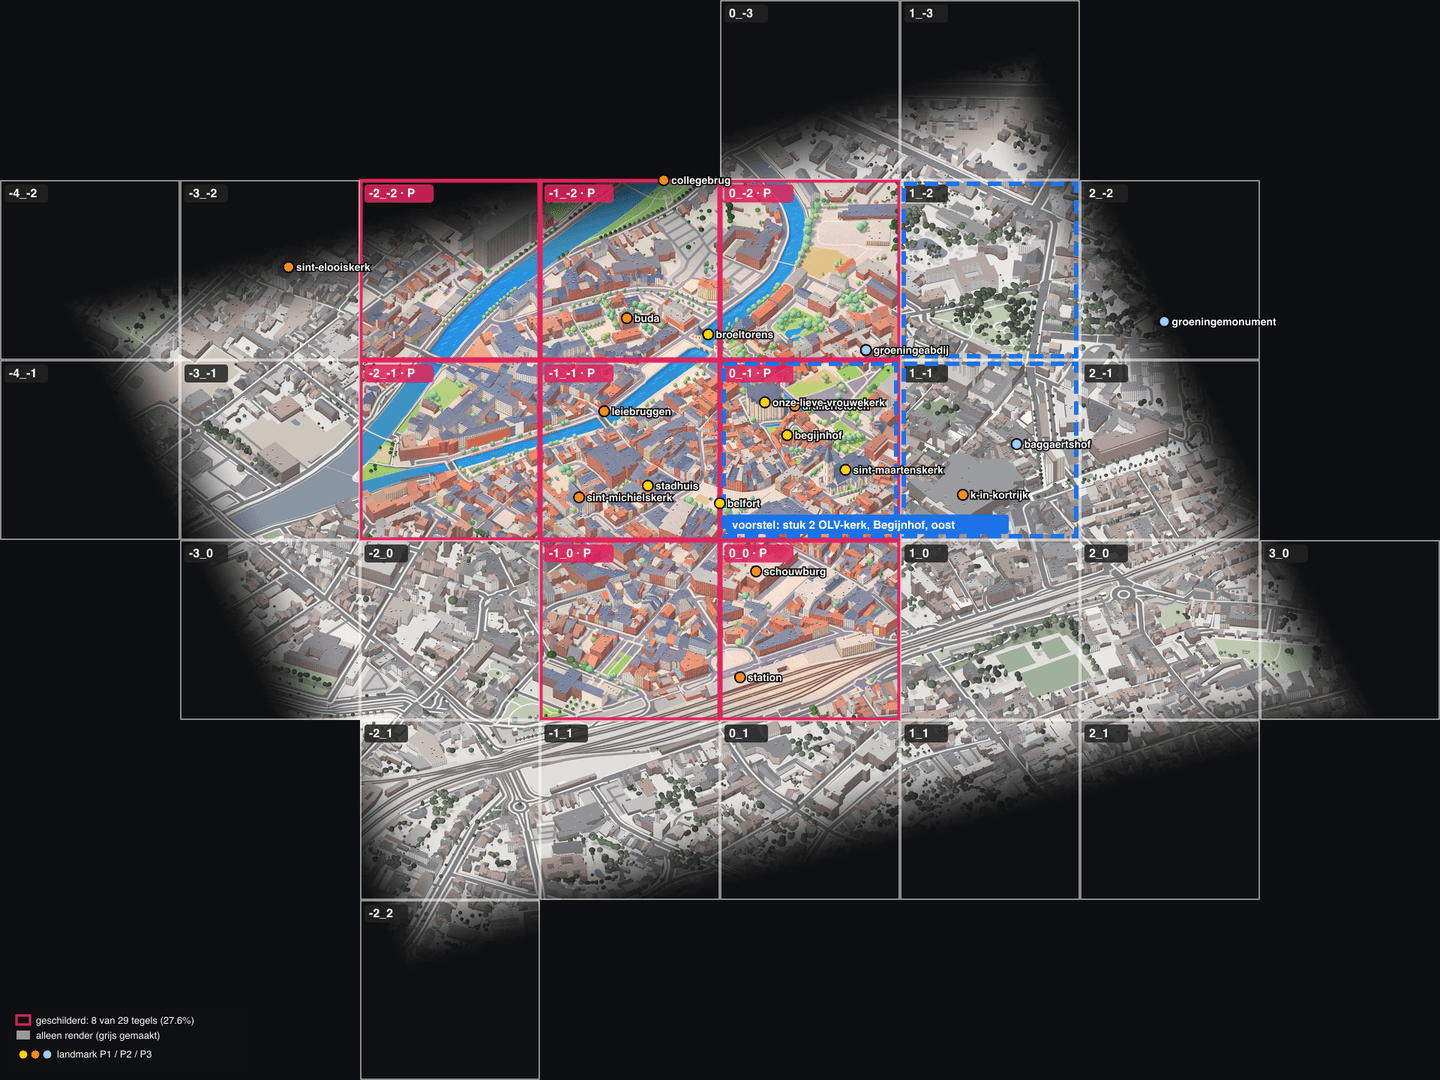
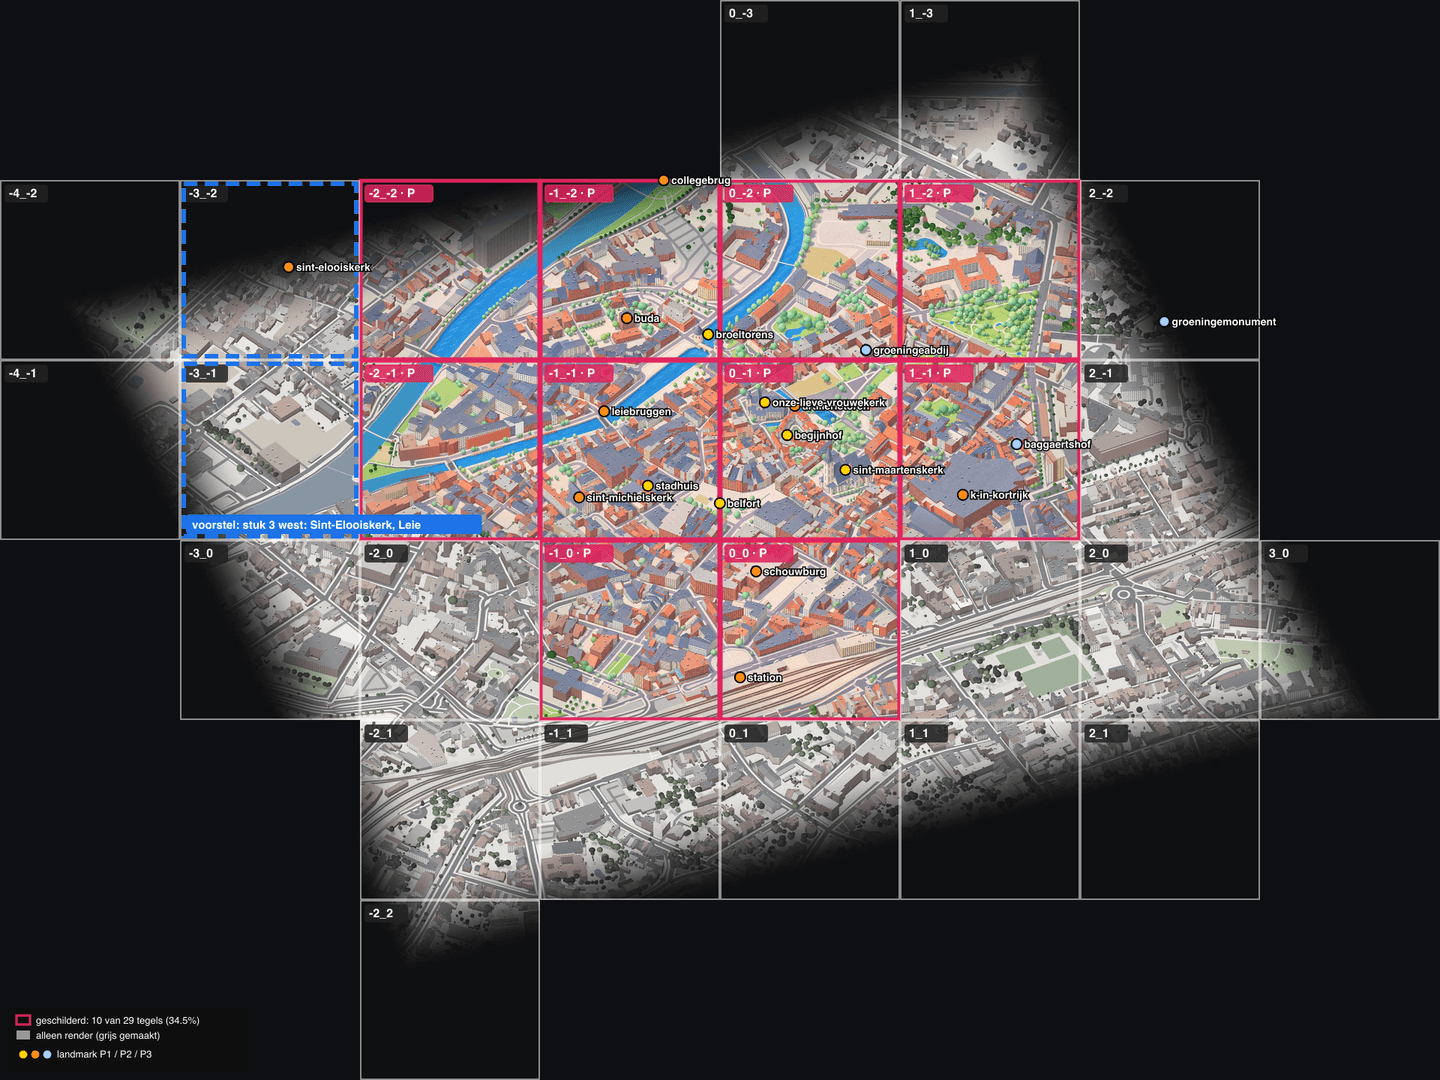
Piece 2 live: OLV-kerk, Begijnhof, east side; 10 of 29 tiles
Windows 0_-2 and 0_-1 repainted (twice: neighbour strips first carried the
old palace-like OLV along), 1_-2 and 1_-1 painted: 6 calls, ~$0.54. Five
tiles reassembled with the new pipeline/tools/assemble_tiles.py, which
rewrites only a piece's tiles. Published (236 files). paintstatus.ts reads
published tiles from R2 when the cache is empty. Piece 3 (west) proposed.

diff --git a/pipeline/src/paintstatus.ts b/pipeline/src/paintstatus.ts
@@ -3,9 +3,10 @@
  * per 1024 px art tile), painted tiles outlined red, render-only tiles greyed, landmarks by priority,
  * and the proposed next piece dashed blue. Run after every piece (docs/PAINT_STATUS.md "Working rule").
  *
- *   npx tsx src/paintstatus.ts [--next "1_-2,1_-1"] [--label "voorstel: stuk 2 ..."]
+ *   npx tsx src/paintstatus.ts [--next="1_-2,1_-1"] [--label "voorstel: stuk 2 ..."]
  *
- * Needs an export (data/web/regions/<region>/tiles/map/7).
+ * Reads the z7 map tiles from the export cache, else the published ones on R2 (TILES_ORIGIN, default the
+ * simkortrijk r2.dev bucket) by their hashes in data/web-state/<region>.json.
  */
 import { existsSync, readFileSync, readdirSync } from "node:fs";
 import { join } from "node:path";
@@ -13,7 +14,7 @@ import { parseArgs } from "node:util";
 import sharp from "sharp";
 import { GROUND_H } from "./areas.ts";
 import { llhToPixel } from "./camera.ts";
-import { DERIVED, PIPELINE, ROOT, WEB_CACHE } from "./paths.ts";
+import { DERIVED, PIPELINE, ROOT, WEB_CACHE, WEB_STATE } from "./paths.ts";
 
 const { values: args } = parseArgs({ options: { area: { type: "string", default: "kortrijk-binnenstad" }, next: { type: "string", default: "" }, label: { type: "string", default: "" } } });
 const d = join(DERIVED, args.area!);
@@ -24,11 +25,21 @@ const painted = new Set(existsSync(join(d, "paint")) ? readdirSync(join(d, "pain
 const next = new Set(args.next!.split(",").filter(Boolean));
 const C = 240, TX0 = Math.min(...tiles.map((t) => t[0])), TY0 = Math.min(...tiles.map((t) => t[1]));
 const NX = Math.max(...tiles.map((t) => t[0])) - TX0 + 1, NY = Math.max(...tiles.map((t) => t[1])) - TY0 + 1, W = NX * C, H = NY * C;
+const ORIGIN = process.env.TILES_ORIGIN || "https://pub-74f69231228247acb76f1009b1fa86f5.r2.dev";
+const stateFile = join(WEB_STATE, "kortrijk.json");
+const published = existsSync(stateFile) ? JSON.parse(readFileSync(stateFile, "utf8")) : {};
 const parts = [];
 for (const [tx, ty] of tiles) {
   const f = join(z7, `${tx}`, `${ty}.avif`);
-  if (!existsSync(f)) throw new Error(`${f} missing: run npm run export first`);
-  let img = sharp(readFileSync(f)).resize(C, C);
+  let buf: Buffer;
+  if (existsSync(f)) buf = readFileSync(f);
+  else {
+    const v = published.layers?.map?.hashes?.[`7/${tx}_${ty}`];
+    const r = await fetch(`${ORIGIN}/regions/kortrijk/tiles/map/7/${tx}/${ty}.avif${v ? `?v=${v}` : ""}`);
+    if (!r.ok) throw new Error(`z7 tile ${tx}_${ty}: not in the export cache and ${r.status} from ${ORIGIN}`);
+    buf = Buffer.from(await r.arrayBuffer());
+  }
+  let img = sharp(buf).resize(C, C);
   if (!painted.has(`${tx}_${ty}`)) img = img.modulate({ saturation: 0.25, brightness: 1.05 });
   parts.push({ input: await img.png().toBuffer(), left: (tx - TX0) * C, top: (ty - TY0) * C });
 }

diff --git a/pipeline/tools/assemble_tiles.py b/pipeline/tools/assemble_tiles.py
@@ -1,0 +1,67 @@
+#!/usr/bin/env python3
+"""Rebuild chosen paint tiles from the windows, feathered into the render where painted meets unpainted.
+
+Unlike assemble_block.py (one rectangle, all of it rewritten) this rewrites only the tiles of a piece
+and leaves every other paint tile as it is:
+
+    python3 pipeline/tools/assemble_tiles.py --target -2_-2,-1_-2,...  --rewrite 0_-1,1_-1
+
+--target: every tile that is painted once this piece is done (feather only where they meet the rest).
+--rewrite: the tiles to write (windows changed under them). Windows are used wherever they exist in
+windows/; a missing window leaves its square to its neighbours, or to the render.
+"""
+import argparse
+from pathlib import Path
+import numpy as np
+from PIL import Image
+from scipy import ndimage
+
+S, W, OV, FE = 896, 1024, 128, 64
+ap = argparse.ArgumentParser(description=__doc__, formatter_class=argparse.RawDescriptionHelpFormatter)
+ap.add_argument("--area", default="kortrijk-binnenstad")
+ap.add_argument("--target", required=True)
+ap.add_argument("--rewrite", required=True)
+ap.add_argument("--feather", type=float, default=220)
+args = ap.parse_args()
+pair = lambda s: tuple(int(v) for v in s.split("_"))
+target = {pair(t) for t in args.target.split(",")}
+rewrite = [pair(t) for t in args.rewrite.split(",")]
+base = Path(__file__).resolve().parents[2] / "data" / "derived" / args.area
+txs = [t[0] for t in target]; tys = [t[1] for t in target]
+tx0, tx1, ty0, ty1 = min(txs) - 1, max(txs) + 1, min(tys) - 1, max(tys) + 1   # a render margin all round
+x0, y0 = tx0 * 1024, ty0 * 1024
+Wd, Hd = (tx1 - tx0 + 1) * 1024, (ty1 - ty0 + 1) * 1024
+k = np.arange(W)
+edge = lambda t: np.clip((t + 0.5 - (OV - FE) / 2) / FE, 0, 1)
+ramp = np.minimum(edge(k), edge(W - 1 - k))
+acc = np.zeros((Hd, Wd, 3)); ws = np.zeros((Hd, Wd))
+wins = {pair(p.stem) for p in (base / "windows").glob("*.png")}
+for (i, j) in sorted(wins):
+    x, y = i * S - x0, j * S - y0
+    if x + W <= 0 or y + W <= 0 or x >= Wd or y >= Hd: continue
+    a = np.asarray(Image.open(base / "windows" / f"{i}_{j}.png").convert("RGB").resize((W, W))).astype(float)
+    c, r = ramp.copy(), ramp.copy()
+    if (i - 1, j) not in wins: c[: W // 2] = 1   # no neighbour on that side: opaque to its own edge
+    if (i + 1, j) not in wins: c[W // 2 :] = 1
+    if (i, j - 1) not in wins: r[: W // 2] = 1
+    if (i, j + 1) not in wins: r[W // 2 :] = 1
+    w2 = np.outer(r, c)
+    xs, ys, xe, ye = max(0, -x), max(0, -y), min(W, Wd - x), min(W, Hd - y)
+    acc[y + ys : y + ye, x + xs : x + xe] += a[ys:ye, xs:xe] * w2[ys:ye, xs:xe, None]
+    ws[y + ys : y + ye, x + xs : x + xe] += w2[ys:ye, xs:xe]
+paint = acc / np.maximum(ws, 1e-6)[..., None]
+render = np.zeros((Hd, Wd, 3)); tgt = np.zeros((Hd, Wd), bool)
+for ty in range(ty0, ty1 + 1):
+    for tx in range(tx0, tx1 + 1):
+        f = base / "render" / f"{tx}_{ty}.png"; y, x = (ty - ty0) * 1024, (tx - tx0) * 1024
+        if f.exists(): render[y : y + 1024, x : x + 1024] = np.asarray(Image.open(f).convert("RGB"))
+        if (tx, ty) in target: tgt[y : y + 1024, x : x + 1024] = True
+zone = ~(tgt & (ws > 1e-3))
+alpha = np.clip(ndimage.distance_transform_edt(~zone) / args.feather, 0, 1)
+alpha = alpha * alpha * (3 - 2 * alpha)
+out = paint * alpha[..., None] + render * (1 - alpha[..., None])
+(base / "paint").mkdir(exist_ok=True)
+for tx, ty in rewrite:
+    y, x = (ty - ty0) * 1024, (tx - tx0) * 1024
+    Image.fromarray(np.clip(out[y : y + 1024, x : x + 1024], 0, 255).astype(np.uint8)).save(base / "paint" / f"{tx}_{ty}.png")
+print(f"wrote {len(rewrite)} paint tiles: {' '.join(f'{a}_{b}' for a, b in rewrite)} (feather {args.feather:g} px)")

diff --git a/docs/PAINT_STATUS.md b/docs/PAINT_STATUS.md
@@ -28,11 +28,16 @@ The map is painted in **pieces** (`stukken`): a few neighbouring tiles, or one l
 |---|---|---|---|---|---|---|
 | 0 | Broeltorens block | `-2_-2` `-1_-2` `0_-2` `-2_-1` `-1_-1` `0_-1` | Broeltorens + Broelbrug, Sint-Maartenskerk (fixed); Belfort, stadhuis, OLV-kerk, Begijnhof, Buda, Collegebrug, Groeningeabdij painted from the uncorrected render | **done**, live | 11 / ~$0.98 | 2026-11-11 |
 | 1 | Grote Markt | repaint the Belfort and stadhuis windows in `-1_-1` / `0_-1`; paint `-1_0` `0_0` | Belfort, historisch stadhuis (P1, render fix first); Stadsschouwburg, station (P2) | **done**, live (published 18:27 CET, 214 files): render fixed (`belfort/massing.json`, `stadhuis/massing.json`), windows `-1_-1` and `0_-1` repainted, `-1_0` and `0_0` painted, tiles `-1_-1` `0_-1` `-1_0` `0_0` reassembled | 4 / ~$0.36 | 2026-11-11 |
-| 2 | OLV-kerk, Begijnhof, east side | repaint `0_-1` after the OLV and Begijnhof fixes; paint `1_-2` `1_-1` | OLV-kerk + Gravenkapel, Begijnhof (P1, render fix first); K in Kortrijk + Sint-Janstoren (P2); Baggaertshof (P3) | **in progress**: approved by Tom; OLV-kerk (`massing.json`) and Begijnhof (`colours.json`) render fixed, render check with Tom; no paint calls yet | ~5 / ~$0.45 (estimate) | 2026-11-11 |
+| 2 | OLV-kerk, Begijnhof, east side | repaint `0_-1` after the OLV and Begijnhof fixes; paint `1_-2` `1_-1` | OLV-kerk + Gravenkapel, Begijnhof (P1, render fix first); K in Kortrijk + Sint-Janstoren (P2); Baggaertshof (P3) | **done**, live (published 18:46 CET, 236 files): OLV-kerk (`massing.json`) and Begijnhof (`colours.json`) fixed; windows `0_-2` `0_-1` repainted, `1_-2` `1_-1` painted, tiles `0_-2` `0_-1` `0_0` `1_-2` `1_-1` reassembled. K in Kortrijk, Sint-Janstoren and Baggaertshof painted from the uncorrected render | 6 / ~$0.54 (2 repaints after the OLV came out as a palace, see below) | 2026-11-11 |
+| 3 | West: Sint-Elooiskerk, Leie | paint `-3_-2` `-3_-1` (windows `-4_-2` `-4_-1` `-3_-2` `-3_-1`) | Sint-Elooiskerk (P2; check its LiDAR spire in the render first), Noordbrug / Leiebruggen (P2) | **proposed** | ~4 / ~$0.36 (estimate) | |
 
-Progress: **8 of 29** binnenstad tiles painted (27.6%), all live.
+Progress: **10 of 29** binnenstad tiles painted (34.5%), all live.
 
-How piece 1 was painted (and how the next pieces go): the local `windows/` held old pre-colour windows, so they are in `windows.old-local/`. The windows of the live block (`-2_-2` `-1_-2` `0_-2` `-2_-1` `0_-1`) were cut back out of the live paint tiles so new windows continue the live paint. To publish only what changed: empty `data/web/regions/<region>` and `data/web/<region>.state.json`, then `TILES_ORIGIN=https://pub-74f69231228247acb76f1009b1fa86f5.r2.dev npm run export -- kortrijk-binnenstad` (the lower zooms fetch unchanged tiles from R2, and `.env` leaves `TILES_ORIGIN` empty) and publish with the same `TILES_ORIGIN` plus the OAuth token (CLAUDE.md, Gotchas). Each window is painted alone (`npm run paint -- kortrijk-binnenstad --window=i,j [--force] --interactive`, `PAINT_PROVIDER=openai OPENAI_IMAGE_MODEL=gpt-image-2.6-flare PAINT_ATTEMPTS=1`), and only the tiles that change are reassembled, with the usual 220 px feather into the render wherever a painted tile meets an unpainted one. The bottom ~220 px of a block are a feather into the render, so a block that grows downward or sideways repaints its edge windows too.
+Open follow-ups (small pieces of their own, each a render fix plus one repaint): K in Kortrijk + Sint-Janstoren (dark stone block with glass barrel roof, white tower) and Baggaertshof (a `colours.json` like the Begijnhof) in window `1_-1`.
+
+How piece 1 was painted (and how the next pieces go): the local `windows/` held old pre-colour windows, so they are in `windows.old-local/`. The windows of the live block (`-2_-2` `-1_-2` `0_-2` `-2_-1` `0_-1`) were cut back out of the live paint tiles so new windows continue the live paint. To publish only what changed: empty `data/web/regions/<region>` and `data/web/<region>.state.json`, then `TILES_ORIGIN=https://pub-74f69231228247acb76f1009b1fa86f5.r2.dev npm run export -- kortrijk-binnenstad` (the lower zooms fetch unchanged tiles from R2, and `.env` leaves `TILES_ORIGIN` empty) and publish with the same `TILES_ORIGIN` plus the OAuth token (CLAUDE.md, Gotchas). Each window is painted alone (`npm run paint -- kortrijk-binnenstad --window=i,j [--force] --interactive`, `PAINT_PROVIDER=openai OPENAI_IMAGE_MODEL=gpt-image-2.6-flare PAINT_ATTEMPTS=1`), and only the tiles that change are reassembled (`python3 pipeline/tools/assemble_tiles.py --target=<all painted tiles> --rewrite=<changed tiles>`), with the usual 220 px feather into the render wherever a painted tile meets an unpainted one. The bottom ~220 px of a block are a feather into the render, so a block that grows downward or sideways repaints its edge windows too.
+
+Neighbour strips carry old paint along: in piece 2 the old `0_-1` window (OLV-kerk painted from the old 34.6 m box, a cream palace) was pasted into the new `0_-2`, which passed it on to the new `0_-1`, and the corrected church came out as a palace again. When a landmark's render changes, move the old windows that show it out of `windows/` before painting its neighbours, then paint outward from the landmark.
 
 ## Summary
 
@@ -41,9 +46,9 @@ How piece 1 was painted (and how the next pieces go): the local `windows/` held 
 | Area on the live map | `kortrijk-binnenstad` only (bbox 50.820387,3.254240 – 50.834760,3.276994, about 800 m) |
 | Render tiles (1024 px, 0.25 m/px, 256 m) | **29**, `tx` -4..3 × `ty` -3..2 (irregular, see grid) |
 | Web resolution | **HD**: native zoom 9 at 0.125 m/px from `render-hd/` (2048 px per tile), AVIF q65. The 6 painted tiles are 1024 px paint upscaled: they are no sharper than before until they are repainted at 2K into `paint-hd/`. |
-| Painted tiles | **8**: `tx` -2..0 × `ty` -2..-1, the Broeltorens / Sint-Maarten block, plus `-1_0` `0_0` (Grote Markt south side, Schouwburg, station; piece 1) |
-| Render-only tiles | **21**, showing the coloured 3D render (per-building colours, `--soften 0.5`), not painted |
-| Coverage | **27.6%** of the binnenstad map (8 of 29 equal tiles) |
+| Painted tiles | **10**: `tx` -2..0 × `ty` -2..-1 (Broeltorens / Sint-Maarten block), `-1_0` `0_0` (piece 1, Grote Markt south side), `1_-2` `1_-1` (piece 2, east side) |
+| Render-only tiles | **19**, showing the coloured 3D render (per-building colours, `--soften 0.5`), not painted |
+| Coverage | **34.5%** of the binnenstad map (10 of 29 equal tiles) |
 | Style | Style A + real colours (`.claude/skills/map-style`) |
 | Painter | OpenAI `gpt-image-2.6-flare`, quality high, input fidelity high, `PAINT_ATTEMPTS=1` |
 | Painted | 2026-11-11, 16:01–16:06 CET |
@@ -57,8 +62,8 @@ How piece 1 was painted (and how the next pieces go): the local `windows/` held 
 ```
 ty \ tx   -4  -3  -2  -1   0   1   2   3
   -3       .   .   .   .   r   r   .   .
-  -2       r   r   P   P   P   r   r   .
-  -1       r   r   P   P   P   r   r   .
+  -2       r   r   P   P   P   P   r   .
+  -1       r   r   P   P   P   P   r   .
    0       .   r   r   P   P   r   r   r
    1       .   .   r   r   r   r   r   .
    2       .   .   r   .   .   .   .   .
@@ -78,7 +83,7 @@ Assembled with `python3 pipeline/tools/assemble_block.py --skip=-2_-3,-1_-3`. Be
 
 ## Not painted yet
 
-- **The rest of the binnenstad:** 21 tiles. In order of interest:
+- **The rest of the binnenstad:** 19 tiles. In order of interest:
   - the Leie and Groeninge side to the east, `1_-2`, `1_-1`, `2_-2`, `2_-1`: K in Kortrijk, Baggaertshof, Groeningemonument;
   - Sint-Elooiskerk and Noordbrug to the west, `-3_-2`, `-3_-1`;
   - the station and Schouwburg to the south, row `ty` 0;
@@ -95,21 +100,21 @@ Each landmark has notes, photos and a priority in `pipeline/landmarks/<slug>/` (
 |---|---|---|---|---|
 | P1 | Broeltorens + Broelbrug | **done** (`edit_broel.py`) | `-1_-2` | **yes** |
 | P1 | Sint-Maartenskerk | **done** (`massing.json`) | `0_-1` | **yes** (church with spire) |
-| P1 | Belfort / Halletoren | **done** (`massing.json`, piece 1) | `-1_-1` | yes, but from the uncorrected render: it needs a fix and a repaint of its window |
-| P1 | Historisch stadhuis | **done** (`massing.json`, piece 1) | `-1_-1` | yes, from the uncorrected render |
-| P1 | Onze-Lieve-Vrouwekerk | **done** (`massing.json`, piece 2) | `0_-1` | yes, from the uncorrected render |
-| P1 | Begijnhof | **done** (`colours.json`, piece 2) | `0_-1` | yes, from the uncorrected render |
+| P1 | Belfort / Halletoren | **done** (`massing.json`, piece 1) | `-1_-1` | **yes** (piece 1) |
+| P1 | Historisch stadhuis | **done** (`massing.json`, piece 1) | `-1_-1` | **yes** (piece 1) |
+| P1 | Onze-Lieve-Vrouwekerk | **done** (`massing.json`, piece 2) | `0_-1` | **yes** (piece 2) |
+| P1 | Begijnhof | **done** (`colours.json`, piece 2) | `0_-1` | **yes** (piece 2) |
 | P2 | Artillerietoren | pending | `0_-1` | yes, from the uncorrected render |
 | P2 | Sint-Michielskerk | pending | `-1_-1` | yes, from the uncorrected render |
 | P2 | Buda (toren, fabriek, brug) | pending | `-1_-2` / `-2_-2` | yes, from the uncorrected render |
 | P2 | Collegebrug | pending | `-1_-2` | yes, from the uncorrected render |
 | P2 | Leiebruggen | pending | `-1_-1`, `-2_-1`, `-3_-1` | partly |
 | P2 | Sint-Elooiskerk | pending | `-3_-2` | no |
-| P2 | K in Kortrijk + Sint-Janstoren | pending | `1_-1` | no |
-| P2 | Station | pending | row `ty` 0 | no |
-| P2 | Stadsschouwburg | pending | row `ty` 0 | no |
+| P2 | K in Kortrijk + Sint-Janstoren | pending | `1_-1` | yes, from the uncorrected render (piece 2) |
+| P2 | Station | pending | row `ty` 0 | yes, from the uncorrected render (piece 1) |
+| P2 | Stadsschouwburg | pending | row `ty` 0 | yes, from the uncorrected render (piece 1) |
 | P3 | Groeningeabdij | pending | `0_-2` | yes, from the uncorrected render |
-| P3 | Baggaertshof | pending | `1_-1` | no |
+| P3 | Baggaertshof | pending | `1_-1` | yes, from the uncorrected render (piece 2) |
 | P3 | Groeningemonument | pending | `2_-2` | no |
 
 Tiles are from the landmark's OSM position projected with `pipeline/src/camera.ts`. Station and Schouwburg are approximate.

diff --git a/CLAUDE.md b/CLAUDE.md
@@ -104,7 +104,7 @@ Only touch R2 bucket `simkortrijk` and Worker `simkortrijk`. Never change any ot
 
 - **Paint one piece at a time, with Tom in the loop.** Before each piece: show `docs/paint-status.png`, propose tiles, landmarks, render fixes, cost and useful references, and wait for Tom's go and any reference material he adds. After each piece: update the piece table and summary in `docs/PAINT_STATUS.md` and regenerate `docs/paint-status.png`. Full rule in `docs/PAINT_STATUS.md` ("Working rule").
 
-**`docs/PAINT_STATUS.md` is the single source of truth**: what is painted and what is not, the tile and window grid, cost, excluded windows, landmark status, and restore points. Update it (and `docs/paint-status.png`) after every paint run and every publish. In short, as of 2026-11-11: 8 of 29 binnenstad tiles are painted (27.6%, all live), 21 are coloured render, and the municipality is not started.
+**`docs/PAINT_STATUS.md` is the single source of truth**: what is painted and what is not, the tile and window grid, cost, excluded windows, landmark status, and restore points. Update it (and `docs/paint-status.png`) after every paint run and every publish. In short, as of 2026-11-11: 10 of 29 binnenstad tiles are painted (34.5%, all live), 19 are coloured render, and the municipality is not started.
 
 Live since 2026-11-11, published to R2 in HD (native zoom 9, 0.125 m/px from `render-hd/`, AVIF q65; viewer reads `scale` from world.json): 29 tiles of `kortrijk-binnenstad`, rendered with per-building colours (`--soften 0.5`) and the Sint-Maartenskerk `massing.json`. Six are painted in **Style A + real colours** with **OpenAI `gpt-image-2.6-flare`** (quality high, input fidelity high, `PAINT_ATTEMPTS=1`): `tx` -2..0, `ty` -2..-1, the Broeltorens block. Windows `-2_-3` and `-1_-3` (mostly empty map edge) are skipped and stay render (`assemble_block.py --skip=-2_-3,-1_-3`). Cost was 11 calls, about $1. Windows and paint tiles live in `data/derived` (gitignored), and the published copies are on R2.
 

diff --git a/AGENTS.md b/AGENTS.md
@@ -17,7 +17,7 @@ The code is adapted from [Isometric World](https://github.com/krasun/isometricwo
 
 - **Paint one piece at a time, with Tom in the loop.** Before each piece: show `docs/paint-status.png`, propose tiles, landmarks, render fixes, cost and useful references, and wait for Tom's go and any reference material he adds. After each piece: update the piece table and summary in `docs/PAINT_STATUS.md` and regenerate `docs/paint-status.png`. Full rule in `docs/PAINT_STATUS.md` ("Working rule").
 
-Single source of truth: [docs/PAINT_STATUS.md](docs/PAINT_STATUS.md). Update it after every paint run and every publish. As of 2026-11-11: 8 of 29 tiles painted (27.6%, all live), and windows `-2_-3` / `-1_-3` are excluded.
+Single source of truth: [docs/PAINT_STATUS.md](docs/PAINT_STATUS.md). Update it after every paint run and every publish. As of 2026-11-11: 10 of 29 tiles painted (34.5%, all live), and windows `-2_-3` / `-1_-3` are excluded.
 
 The live map (published 2026-11-11) is 29 tiles of `kortrijk-binnenstad`, rendered with per-building colours and the Sint-Maartenskerk massing. Six tiles are painted in **Style A + real colours** with OpenAI `gpt-image-2.6-flare`: `tx` -2..0 × `ty` -2..-1, the Broeltorens block. Windows `-2_-3` and `-1_-3` (mostly empty map edge) are skipped and stay render. The rest is unpainted render. Paint files are in `data/derived` (not in git) and on R2. Restore points (live, previous coral GPT, pre-colour snapshot, Gemini) are listed in `CLAUDE.md` under "Where the binnenstad paint stands".
 
